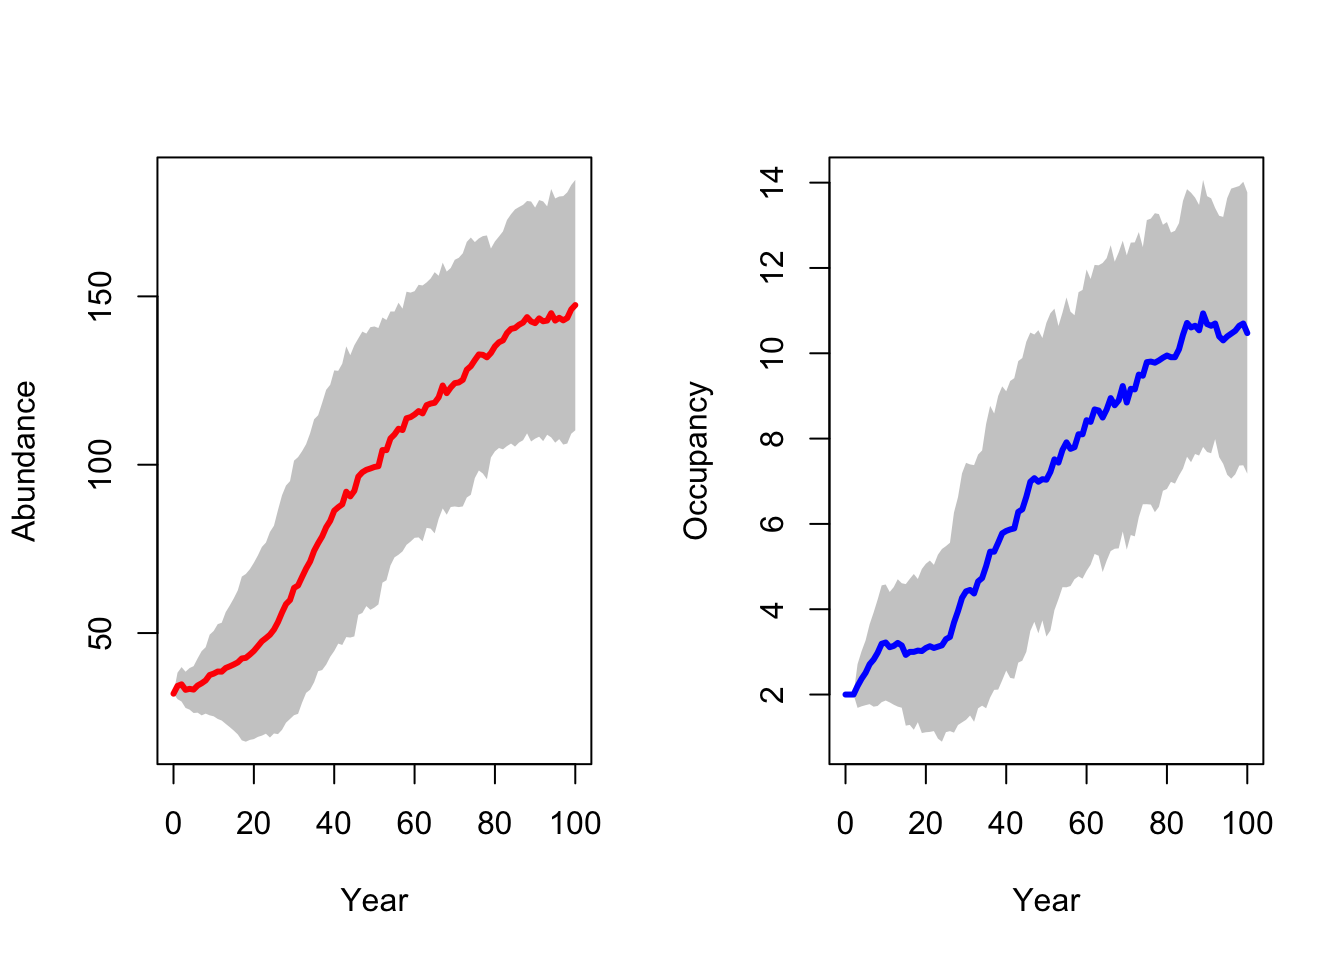
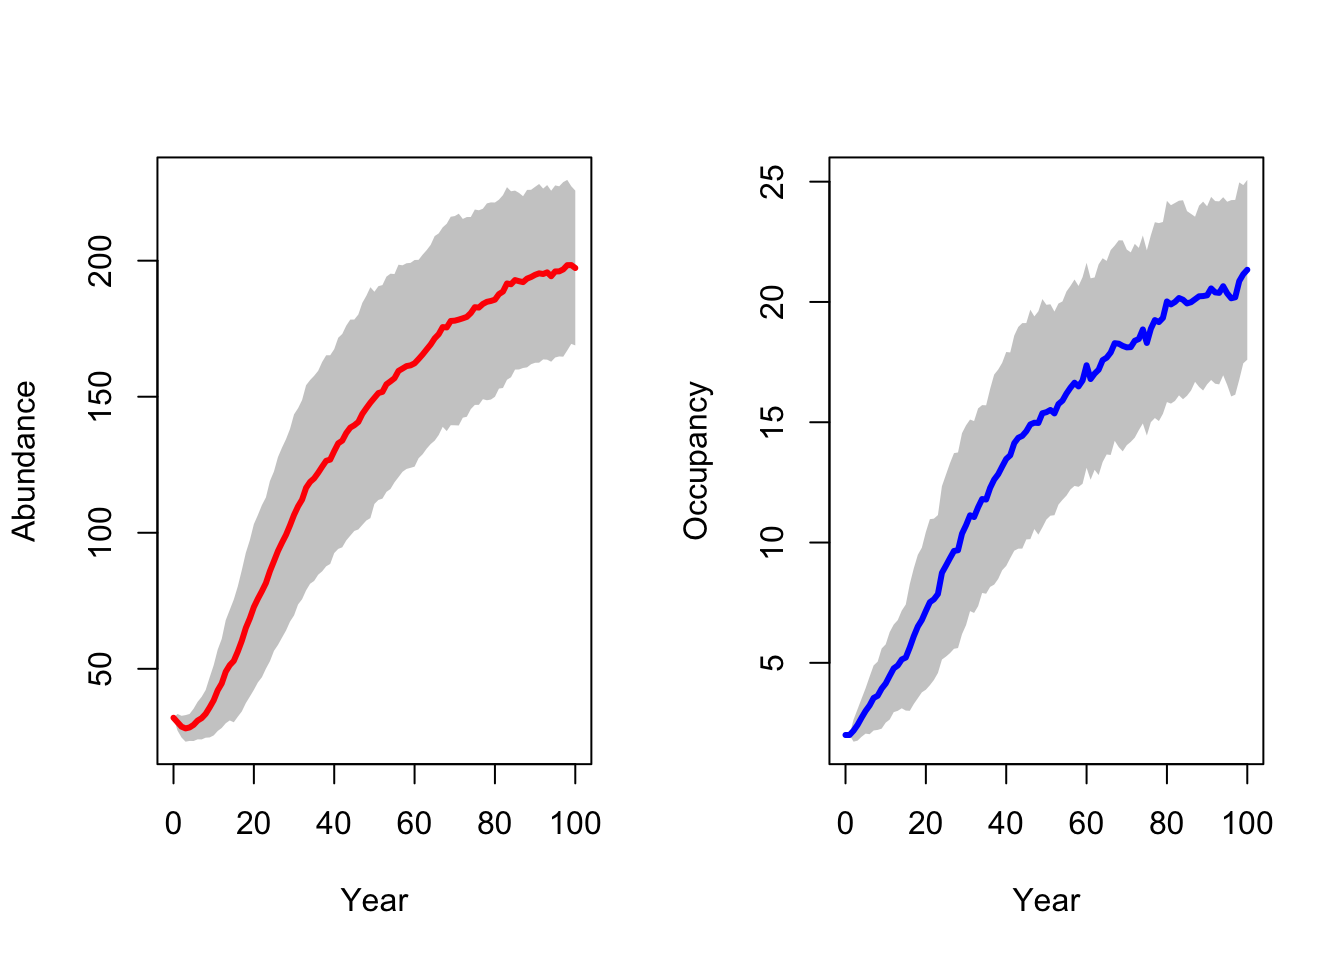
update demography settings/text

diff --git a/8_RS_lynx.html b/8_RS_lynx.html
@@ -669,24 +669,27 @@ territory of <em>c.</em> 3509 ha or 35 km<sup>2</sup>.</p>
 settings</h2>
 <p>All demographic parameters are listed in Table 2 of <span
 class="citation">Ovenden et al. (2019)</span>. The demographic model
-comprises three stages: first-year juveniles (0–12 months), non-breeding
-sub-adults (12–24 months) and breeding adults (&gt;24months). To
-properly simulate natal dispersal, we have to set an additional
-<em>dummy</em> stage 0 (dispersing juveniles) in
-<code>RangeShiftR</code>. After dispersal, dispersing juveniles (stage
-0) will be assigned to stage 1 (first-year juveniles). This is fully
-described in the <a
-href="https://raw.githubusercontent.com/RangeShifter/RangeShifter-software-and-documentation/master/RangeShifter_v2.0_UserManual.pdf">RangeShifter
+comprises three stages: newborns / first-year juveniles (0–12 months),
+non-breeding sub-adults (12–24 months) and breeding adults
+(&gt;24months). The newborn stage is not typically considered in matrix
+population models but is explicitly defined in <code>RangeShiftR</code>
+simulations to allow e.g. for dispersing juveniles. All surviving
+newborns will reach stage 1 at the end of the first year. Often this
+newborn stage simply receives a survival probability of 1 if the
+first-year mortality is already considered in the fecundity rate.
+Alternatively, first-year survival can be explicitly provided &lt; 1,
+which is the case in the lynx example here. The logic of the newborn
+stage is fully described in the <a
+href="https://github.com/RangeShifter/RangeShifter-documentation-and-tutorial/blob/master/RangeShifter_v3.0_UserManual.pdf">RangeShifter
 user manual</a>.</p>
 <pre class="r"><code># Transition matrix
-(trans_mat &lt;- matrix(c(0,1,0,0,0,0, 0.53, 0,0, 0, 0, 0.63, 5,0, 0, 0.8), nrow = 4, byrow = F))  # stage 0: dispersing newborns; stage 1 : first-year juveniles; stage 2: non-breeding sub-adults; stage 3: breeding adults</code></pre>
-<pre><code>##      [,1] [,2] [,3] [,4]
-## [1,]    0 0.00 0.00  5.0
-## [2,]    1 0.00 0.00  0.0
-## [3,]    0 0.53 0.00  0.0
-## [4,]    0 0.00 0.63  0.8</code></pre>
+(trans_mat &lt;- matrix(c(0, 0.53, 0,0, 0, 0.63, 5, 0, 0.8), nrow = 3, byrow = F))  # stage 0: dispersing newborns / first-year juveniles; stage 1: non-breeding sub-adults; stage 2: breeding adults</code></pre>
+<pre><code>##      [,1] [,2] [,3]
+## [1,] 0.00 0.00  5.0
+## [2,] 0.53 0.00  0.0
+## [3,] 0.00 0.63  0.8</code></pre>
 <pre class="r"><code># Define the stage structure
-stg &lt;- StageStructure(Stages = 4, # four stages including dispersing juveniles
+stg &lt;- StageStructure(Stages = 3, # three stages including dispersing juveniles
                       TransMatrix = trans_mat,  # transition matrix
                       MaxAge = 17,  # maximum age
                       FecDensDep = T   # density dependence in fecundity
@@ -708,11 +711,11 @@ al. (2019)</span> considered Eurasian lynx as poor dispersers with some
 sex bias in the dispersal probability. Specifically, the males were
 assigned a higher emigration probability compared to females.</p>
 <pre class="r"><code>emig &lt;- Emigration(DensDep=T, StageDep=T, SexDep = T,
-                   EmigProb = cbind(c(0,0,1,1,2,2,3,3),
-                                    c(0,1,0,1,0,1,0,1),
-                                    c(0.4, 0.9, 0, 0, 0, 0, 0, 0),  # only emigration of juveniles, males higher than females
-                                    c(10, 10, 0, 0, 0, 0, 0, 0), 
-                                    c(1, 1, 0, 0, 0, 0, 0, 0)) ) </code></pre>
+                   EmigProb = cbind(c(0,0,1,1,2,2),
+                                    c(0,1,0,1,0,1),
+                                    c(0.4, 0.9, 0, 0, 0, 0),  # only emigration of juveniles, males higher than females
+                                    c(10, 10, 0, 0, 0, 0), 
+                                    c(1, 1, 0, 0, 0, 0)) ) </code></pre>
 <p>The transfer phase of dispersal was modelled using a stochastic
 movement simulator (SMS). This mechanistic movement model allows
 individuals to perceive certain aspects of the landscape and select
@@ -791,10 +794,10 @@ and stage.</p>
 <!--                    InitAge = 0)       # at min age for the respective stage -->
 <!-- ``` -->
 <pre class="r"><code># prepare dataframe for InitIndsFile
-(init_df_29 &lt;- data.frame(Year=0,Species=0,PatchID=29,Ninds=c(5,5),Sex=c(0,1),Age=3,Stage=3))</code></pre>
+(init_df_29 &lt;- data.frame(Year=0,Species=0,PatchID=29,Ninds=c(5,5),Sex=c(0,1),Age=3,Stage=2))</code></pre>
 <pre><code>##   Year Species PatchID Ninds Sex Age Stage
-## 1    0       0      29     5   0   3     3
-## 2    0       0      29     5   1   3     3</code></pre>
+## 1    0       0      29     5   0   3     2
+## 2    0       0      29     5   1   3     2</code></pre>
 <p>We write the list of initial individuals into a file in the
 <em>Inputs</em> folder and then specify the initialisation module.</p>
 <pre class="r"><code># write InitIndsFile to file
@@ -814,12 +817,12 @@ Kintyre Peninsula and 14 lynx to Aberdeenshire. Similar to above, we
 write the initial individuals list to file and then specify the
 initialisation module.</p>
 <pre class="r"><code># prepare dataframe for InitIndsFile
-(init_df_29_15 &lt;- data.frame(Year=0,Species=0,PatchID=rep(c(29,15),each=2),Ninds=rep(c(9,7),each=2),Sex=c(0,1),Age=3,Stage=3))</code></pre>
+(init_df_29_15 &lt;- data.frame(Year=0,Species=0,PatchID=rep(c(29,15),each=2),Ninds=rep(c(9,7),each=2),Sex=c(0,1),Age=3,Stage=2))</code></pre>
 <pre><code>##   Year Species PatchID Ninds Sex Age Stage
-## 1    0       0      29     9   0   3     3
-## 2    0       0      29     9   1   3     3
-## 3    0       0      15     7   0   3     3
-## 4    0       0      15     7   1   3     3</code></pre>
+## 1    0       0      29     9   0   3     2
+## 2    0       0      29     9   1   3     2
+## 3    0       0      15     7   0   3     2
+## 4    0       0      15     7   1   3     2</code></pre>
 <pre class="r"><code># write InitIndsFile to fil
 write.table(init_df_29_15, file=paste0(dirpath,&#39;Inputs/InitInds_29_15.txt&#39;), sep=&#39;\t&#39;, row.names=F, quote=F)
 
@@ -900,12 +903,12 @@ col_stats_29 &lt;- ColonisationStats(s_29, dirpath, years = 100, maps = T)</code
 <pre class="r"><code># mean occupancy probability in year 100
 head(col_stats_29$occ_prob)</code></pre>
 <pre><code>##   patch  100
-## 1     1 0.08
-## 2     2 0.11
-## 3     3 0.14
-## 4     4 0.29
-## 5     5 0.46
-## 6     6 0.32</code></pre>
+## 1     1 0.20
+## 2     2 0.42
+## 3     3 0.42
+## 4     4 0.63
+## 5     5 0.71
+## 6     6 0.54</code></pre>
 <pre class="r"><code># map occupancy probability
 mycol_occprob &lt;- colorRampPalette(c(&#39;blue&#39;,&#39;orangered&#39;,&#39;gold&#39;))
 plot(col_stats_29$map_occ_prob, axes=F, range=c(0,1), col=mycol_occprob(10), type=&quot;continuous&quot;)</code></pre>
@@ -964,11 +967,11 @@ pop_29 %&gt;%
 ##  2     1  0     
 ##  3     2  0     
 ##  4     3  0     
-##  5     4  0     
+##  5     4  0.0100
 ##  6     5  0.0100
 ##  7     6  0.0100
 ##  8     7  0.0100
-##  9     8  0.0300
+##  9     8  0.0200
 ## 10     9  0.0300
 ## # ℹ 91 more rows</code></pre>
 <p>Additionally, we might be interested in the mean time to extinction.
@@ -987,7 +990,7 @@ pop_29 %&gt;%
   # Identify in which year they go extinct
   filter(sumPop==0) %&gt;% 
   pull(Year) %&gt;% mean</code></pre>
-<pre><code>## [1] 20.67647</code></pre>
+<pre><code>## [1] 19.03846</code></pre>
 <pre class="r"><code># Intrinsic mean time to extinction:
 pop_29 %&gt;%
   group_by(Rep,Year) %&gt;%
@@ -1002,7 +1005,7 @@ pop_29 %&gt;%
   coef() %&gt;% .[2] %&gt;% 
   {1 / .}  # Intrinsic mean time to extinction is the inverse of the slope coefficient</code></pre>
 <pre><code>##     Year 
-## 252.5797</code></pre>
+## 368.9602</code></pre>
 <p>As the computation of these measures takes a few line of code, it is
 useful to define an own function to ease computation and keep our R
 script as short as possible. We thus define two new functions (using the
@@ -1068,11 +1071,11 @@ ggplot(data = extProb_29, mapping = aes(x = Year, y = extProb)) +
 <pre class="r"><code># mean time to extinction
 Calc_ExtTime(pop_29)</code></pre>
 <pre><code>##     Year 
-## 252.5797</code></pre>
+## 368.9602</code></pre>
 <p>The results indicate that although the mean abundances across 100
 replicate simulations are increasing over time, there is still a certain
 risk of extinction for the reintroduced lynx. Still, the intrinsic mean
-time to extinction is <em>c.</em> 215 years.</p>
+time to extinction is <em>c.</em> 368 years.</p>
 </div>
 </div>
 <div id="multi-site-reintroduction-1" class="section level2"
@@ -1126,7 +1129,7 @@ extProb_29_15 &lt;- Calc_ExtProb(pop_29_15,s_29_15)
 # intrinsic mean time to extinction
 Calc_ExtTime(pop_29_15)</code></pre>
 <pre><code>##     Year 
-## 284.0972</code></pre>
+## 3631.906</code></pre>
 <pre class="r"><code># Compare extinction probabilities for single- and multi-site reintroduction
 
 # Join extinction probabilities in a single data frame
@@ -1139,7 +1142,7 @@ ggplot(data = extProb_scens, mapping = aes(x = Year, y = extProb, color=Scenario
 <p><img src="8_RS_lynx_files/figure-html/unnamed-chunk-33-1.png" width="672" /></p>
 <p>As result, the multi-site reintroduction reduces the extinction
 probability of lynx and also the intrinsic mean time to extinction
-increases. Still, there is only a 75 % chance of successful long-term
+increases. There is thus a high chance of successful long-term
 establishment of lynx in Scotland.</p>
 </div>
 </div>

diff --git a/9_RS_grouse.html b/9_RS_grouse.html
@@ -639,12 +639,12 @@ settings</h2>
 <p>In black grouse, females are the limiting sex regarding reproduction
 and dispersal and we hence use an asexual model <span
 class="citation">(Zurell et al. 2012)</span>. We consider stage
-structured populations and distinguish two stages, juveniles that will
-disperse and adult hens that start reproducing at yearling age. Some
-studies indicate that yearlings produce less offspring then adults <span
-class="citation">(Caizergues and Ellison 2000)</span> but we here follow
-the scheduling suggested in <span class="citation">(Zurell et al.
-2012)</span>.</p>
+structured populations and distinguish two stages, first-year juveniles
+that will disperse and adult hens that start reproducing at yearling age
+(i.e. at age=1). Some studies indicate that yearlings produce less
+offspring then adults <span class="citation">(Caizergues and Ellison
+2000)</span> but we here follow the scheduling suggested in <span
+class="citation">(Zurell et al. 2012)</span>.</p>
 <p>The original black grouse model distinguished different clutch sizes,
 which is not possible in <em>RangeShifter</em>. We, thus, have to
 average clutch sizes to obtain a mean fecundity. Check out the original
